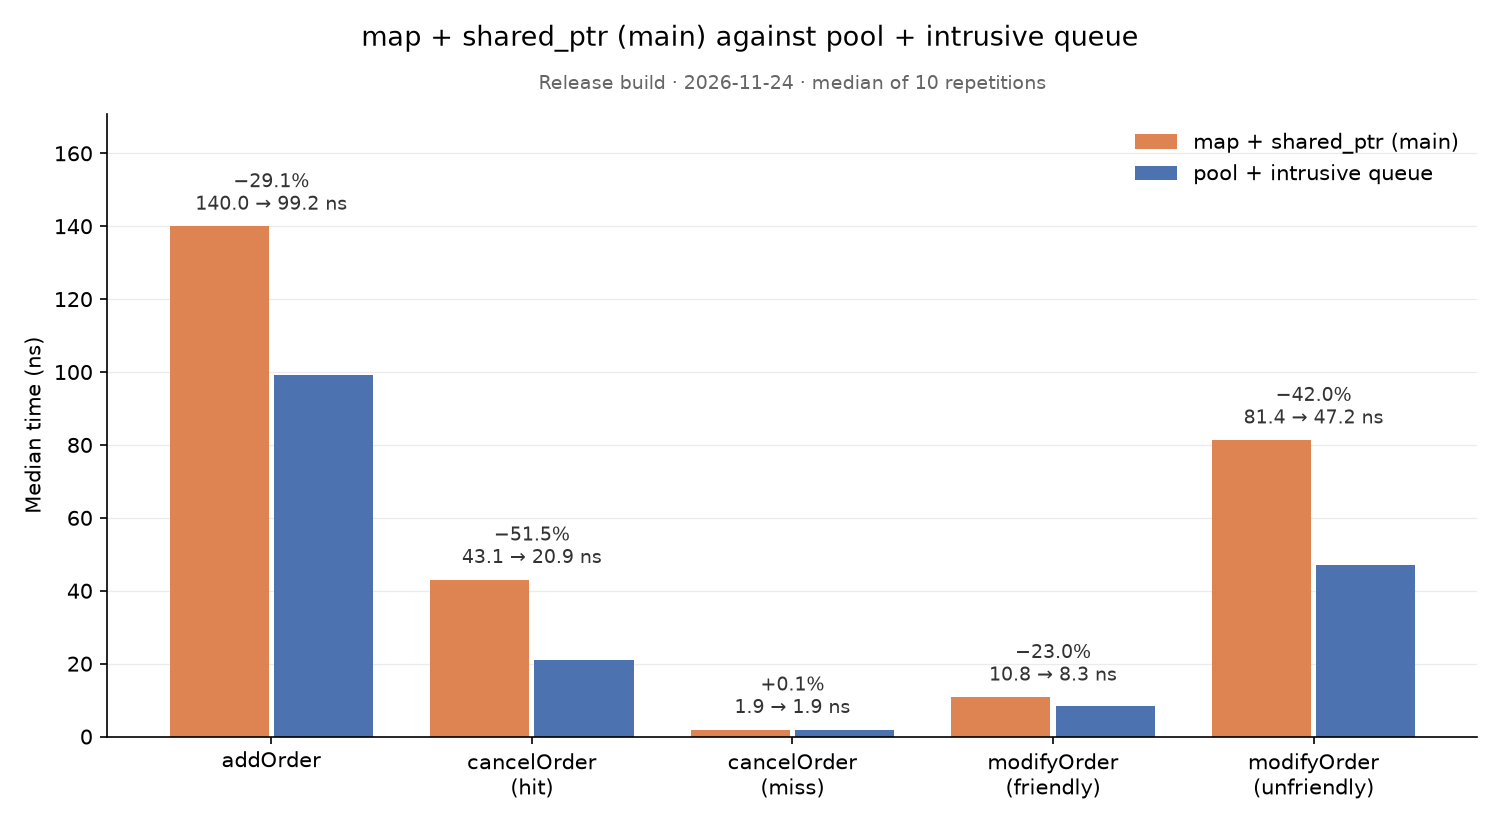
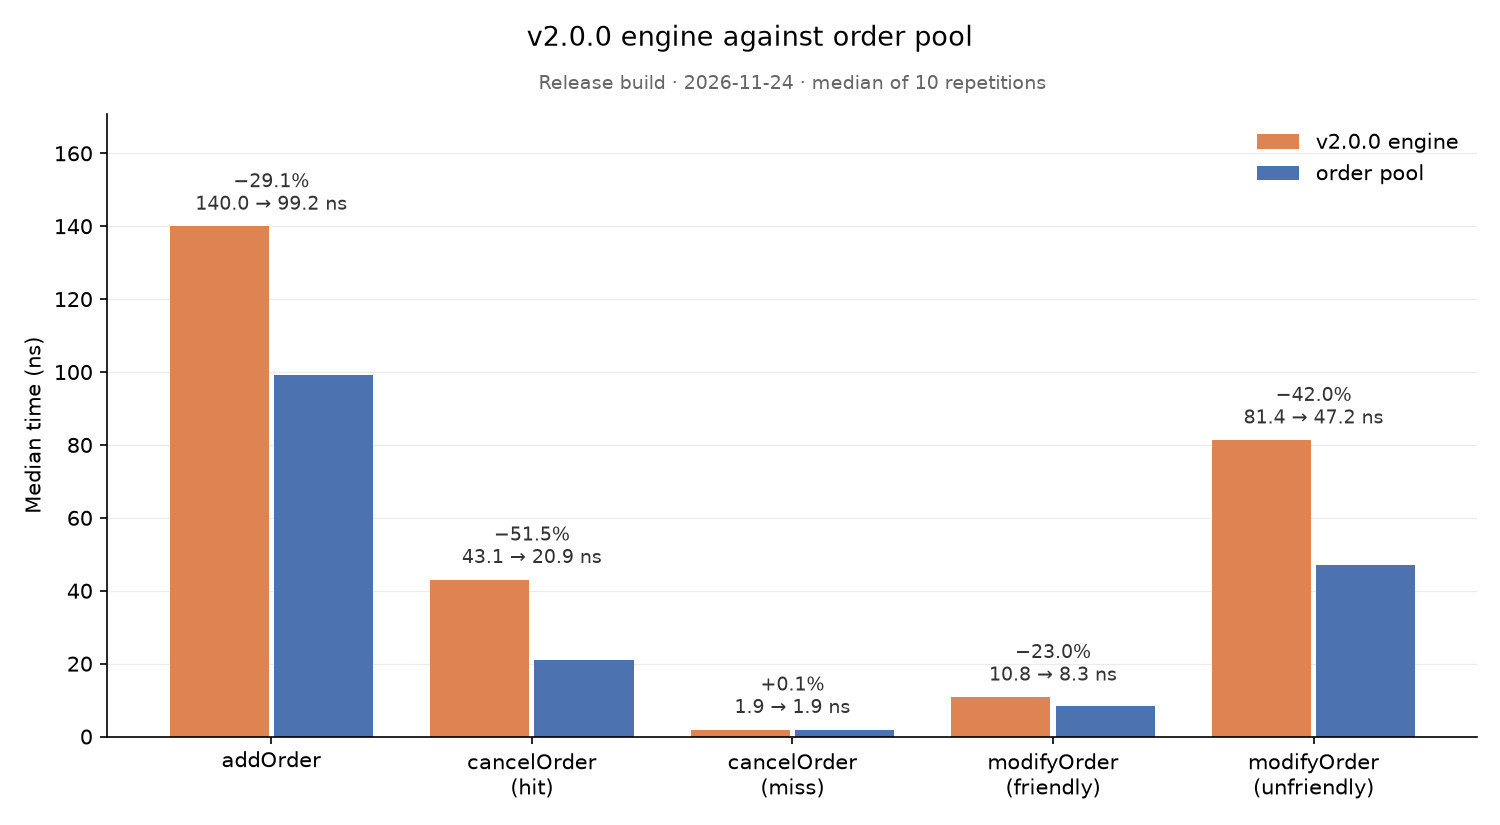
docs: show the pool comparison chart at the top

Changed region(s): [[0.736, 0.1515, 0.9813, 0.2424], [0.2453, 0.0303, 0.7667, 0.0606]]

diff --git a/README.md b/README.md
@@ -29,6 +29,8 @@ matching-cost curves and a breakdown of where the time goes.
 
 ![Benchmark results](benchmarks/benchmark_plot.png)
 
+![The v2.0.0 engine against the order pool](benchmarks/comparison_v2_pool_plot.png)
+
 ---
 
 ## Contents
